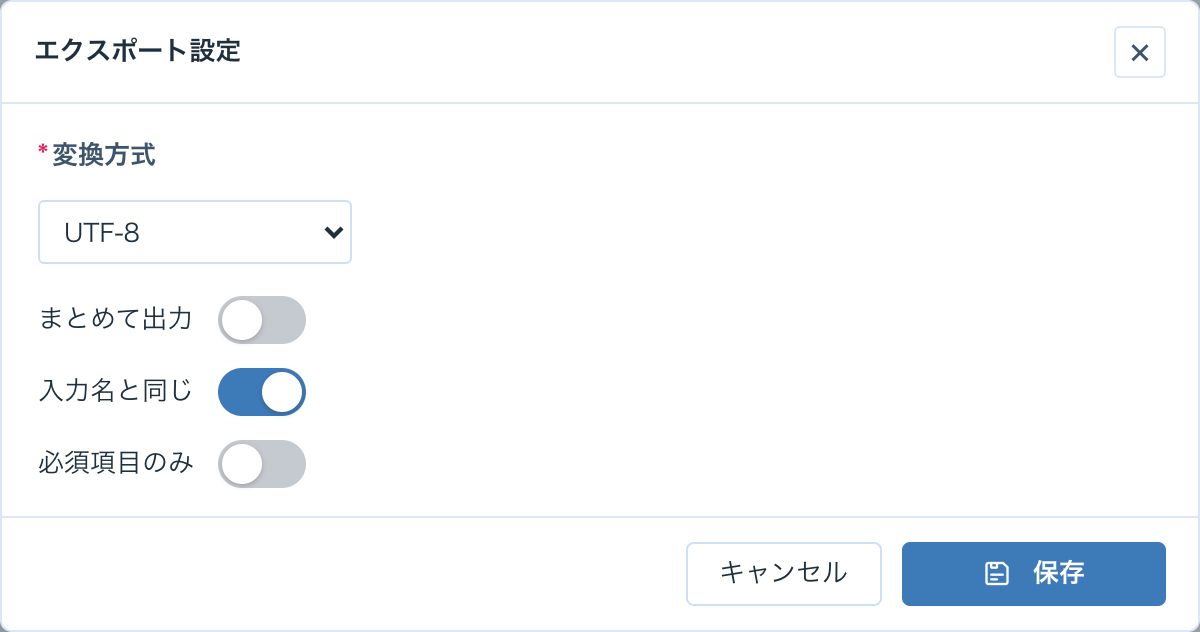
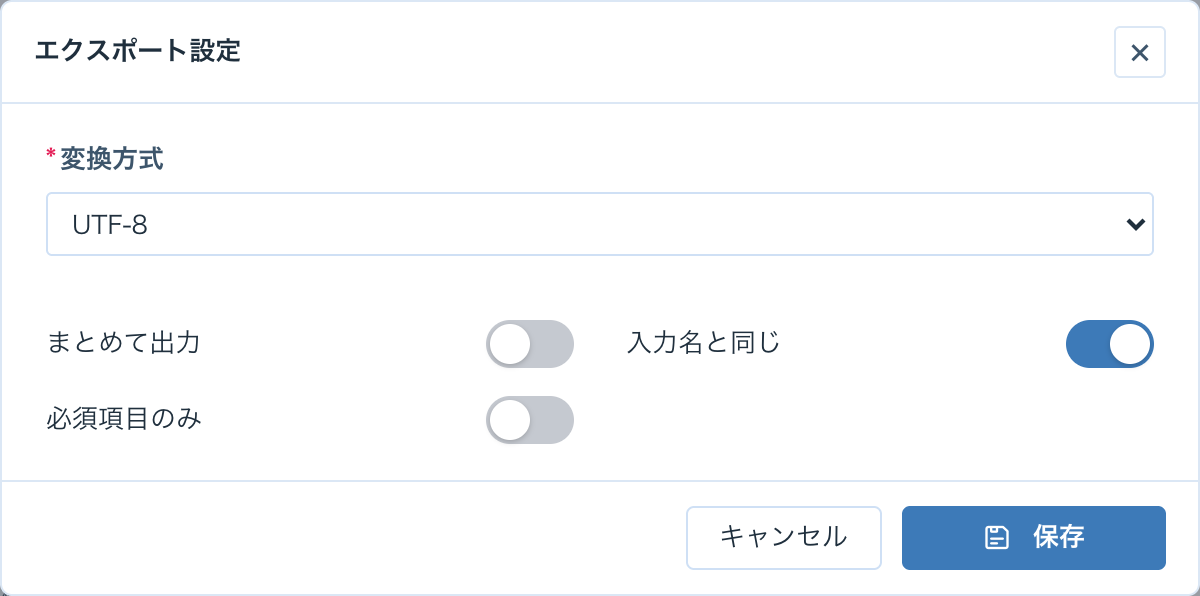
feat: エクスポート設定のスイッチを 2 カラム配置に（方案 B）
- 現行マークアップ（.exp-switches / .exp-switch）に合わせて grid 2 カラム化
- ラベル左・スイッチ右で行幅いっぱいを使い、右の余白を解消
- 変換方式のプルダウンを全幅に
- dist/ も再ビルド

diff --git a/dist/app.js b/dist/app.js
@@ -1508,6 +1508,7 @@ const state = {
   typePage: 1,
   typeZoom: 1,
   typeReadTab: 'text',            // AI読取設定：text | table
+  typeRuleTab: 'table',           // 処理ルール設定：text | table
   typePrompt: '空白文字列抽出ルール：該当項目が見つからない、または判読不能な場合は空文字（""）を出力してください。',
   typeMenu: null,                 // step2 ツールバー：tpl | gear | null
   typeItemMenu: null,             // 左リスト行の … メニュー（タイプ id）
@@ -5282,15 +5283,7 @@ function canEditWorkflow_() {
       ` : renderTypeTablePane()}
     </div>`;
   }
-  if (step === 3) {
-    return '<div class="wiz-empty"><p class="wiz-empty-title">処理ルール設定</p>'
-      + '<p class="muted">読取後の値の変換・突合・出力ルールを設定します。</p>'
-      + '<table class="wiz-table"><thead><tr><th>ルール</th><th>対象項目</th><th>内容</th></tr></thead><tbody>'
-      + '<tr><td>辞書突合</td><td><code>address</code></td><td>市町村名辞書で正規化</td></tr>'
-      + '<tr><td>日付正規化</td><td><code>birthday</code></td><td>和暦 → 西暦（YYYY-MM-DD）</td></tr>'
-      + '<tr><td>必須チェック</td><td><code>name</code></td><td>空の場合は「要確認」にする</td></tr>'
-      + '</tbody></table></div>';
-  }
+  if (step === 3) return renderRulePane();
   return '<div class="wiz-empty"><p class="wiz-empty-title">効果テスト</p>'
     + '<p class="muted">テスト帳票で分類・読取の精度を確認します。</p>'
     + '<table class="wiz-table"><thead><tr><th>項目</th><th>正解</th><th>読取結果</th><th>判定</th></tr></thead><tbody>'
@@ -5298,6 +5291,69 @@ function canEditWorkflow_() {
     + '<tr><td>住所</td><td>千代田区…</td><td>千代田区…</td><td><span class="st ok"><span class="dot"></span>一致</span></td></tr>'
     + '<tr><td>生年月日</td><td>1985-04-02</td><td>1985-04-02</td><td><span class="st ok"><span class="dot"></span>一致</span></td></tr>'
     + '</tbody></table><p class="wiz-score">精度：<b>98.2%</b>（サンプル 120 件）</p></div>';
+}
+
+const RULE_KINDS = ['数字のみ', '小数点付きの数字', 'カタカナ', 'ひらがな', '日付', '西暦年', '西暦月', '西暦日'];
+const RULE_TEXT_ROWS = [
+  ['発注日', '日付'],
+  ['発注番号', '数字のみ'],
+  ['仕入先会社名', 'カタカナ'],
+  ['仕入先担当者', ''],
+  ['納品先', ''],
+  ['納品希望日', '日付'],
+  ['支払条件', ''],
+  ['商品名', ''],
+  ['数量', '数字のみ'],
+  ['単位', 'カタカナ'],
+  ['単価', '小数点付きの数字'],
+  ['金額', '小数点付きの数字'],
+  ['備考', ''],
+  ['発注担当者', ''],
+];
+const RULE_TABLE_ROWS = [
+  ['No.', '数字のみ'],
+  ['商品コード', ''],
+  ['品名・仕様', ''],
+  ['数量', '数字のみ'],
+  ['単位', 'カタカナ'],
+  ['単価', '小数点付きの数字'],
+  ['金額', '小数点付きの数字'],
+];
+
+function renderRulePane() {
+  const tab = state.typeRuleTab === 'text' ? 'text' : 'table';
+  const src = tab === 'text' ? RULE_TEXT_ROWS : RULE_TABLE_ROWS;
+  if (!state.typeRulePick) state.typeRulePick = {};
+  const rows = src.map(([name, fallback], i) => {
+    const id = tab + ':' + i;
+    const cur = state.typeRulePick[id] != null ? state.typeRulePick[id] : fallback;
+    const opts = ['<option value="">選択してください</option>']
+      .concat(RULE_KINDS.map((k) => `<option value="${esc(k)}" ${cur === k ? 'selected' : ''}>${esc(k)}</option>`))
+      .join('');
+    return `<tr>
+      <td class="tp2-no">${i + 1}</td>
+      <td class="rule-name">${esc(name)}</td>
+      <td><select class="fld rule-select" data-rule="${esc(id)}">${opts}</select></td>
+      <td class="rule-conf"><span>95.0 %</span></td>
+    </tr>`;
+  }).join('');
+  return `<div class="tp2-pane rule-pane">
+    <div class="tp2-head">
+      <div class="tp2-tabs">
+        <button type="button" class="tp2-tab ${tab === 'text' ? 'on' : ''}" data-ruletab="text">テキスト読取</button>
+        <button type="button" class="tp2-tab ${tab === 'table' ? 'on' : ''}" data-ruletab="table">テーブル情報読取</button>
+      </div>
+      <div class="tp2-tools">
+        <button type="button" class="btn primary sm" data-rule-ai="1">AIマッチング</button>
+      </div>
+    </div>
+    <div class="tp2-tablewrap rule-tablewrap">
+      <table class="tp2-table rule-table">
+        <thead><tr><th>番号</th><th>項目名</th><th>処理ルール</th><th class="rule-conf">自信度</th></tr></thead>
+        <tbody>${rows}</tbody>
+      </table>
+    </div>
+  </div>`;
 }
 
 /** 帳票タイプ設定（左：タイプ一覧／右：選択中の Step1〜4） */
@@ -5554,6 +5610,34 @@ function bindTicketDetail() {
   document.querySelectorAll('[data-tpread]').forEach((b) => {
     b.onclick = () => { state.typeReadTab = b.dataset.tpread; state.typeMenu = null; render(); };
   });
+  document.querySelectorAll('[data-ruletab]').forEach((b) => {
+    b.onclick = () => { state.typeRuleTab = b.dataset.ruletab; render(); };
+  });
+  document.querySelectorAll('[data-rule]').forEach((el) => {
+    el.onchange = () => {
+      if (!state.typeRulePick) state.typeRulePick = {};
+      state.typeRulePick[el.dataset.rule] = el.value;
+    };
+  });
+  const ruleAi = document.querySelector('[data-rule-ai]');
+  if (ruleAi) ruleAi.onclick = () => {
+    if (!state.typeRulePick) state.typeRulePick = {};
+    const tab = state.typeRuleTab === 'text' ? 'text' : 'table';
+    const src = tab === 'text' ? RULE_TEXT_ROWS : RULE_TABLE_ROWS;
+    const guess = (name) => {
+      if (/日|年|月/.test(name)) return '日付';
+      if (/単価|金額|税/.test(name)) return '小数点付きの数字';
+      if (/番号|数量|No\.|コード/.test(name)) return '数字のみ';
+      if (/会社|単位|カナ/.test(name)) return 'カタカナ';
+      return 'ひらがな';
+    };
+    src.forEach(([name], i) => {
+      const id = tab + ':' + i;
+      if (!state.typeRulePick[id]) state.typeRulePick[id] = guess(name);
+    });
+    toast('AIマッチングしました（Demo）');
+    render();
+  };
   const tpai = document.querySelector('[data-tpai]');
   if (tpai) tpai.onclick = () => {
     const fields = ensureTypeFields();

diff --git a/demo/app.js b/demo/app.js
@@ -1219,6 +1219,7 @@ const state = {
   typePage: 1,
   typeZoom: 1,
   typeReadTab: 'text',            // AI読取設定：text | table
+  typeRuleTab: 'table',           // 処理ルール設定：text | table
   typePrompt: '空白文字列抽出ルール：該当項目が見つからない、または判読不能な場合は空文字（""）を出力してください。',
   typeMenu: null,                 // step2 ツールバー：tpl | gear | null
   typeItemMenu: null,             // 左リスト行の … メニュー（タイプ id）
@@ -4778,15 +4779,7 @@ function typePane(step, t) {
       ` : renderTypeTablePane()}
     </div>`;
   }
-  if (step === 3) {
-    return '<div class="wiz-empty"><p class="wiz-empty-title">処理ルール設定</p>'
-      + '<p class="muted">読取後の値の変換・突合・出力ルールを設定します。</p>'
-      + '<table class="wiz-table"><thead><tr><th>ルール</th><th>対象項目</th><th>内容</th></tr></thead><tbody>'
-      + '<tr><td>辞書突合</td><td><code>address</code></td><td>市町村名辞書で正規化</td></tr>'
-      + '<tr><td>日付正規化</td><td><code>birthday</code></td><td>和暦 → 西暦（YYYY-MM-DD）</td></tr>'
-      + '<tr><td>必須チェック</td><td><code>name</code></td><td>空の場合は「要確認」にする</td></tr>'
-      + '</tbody></table></div>';
-  }
+  if (step === 3) return renderRulePane();
   return '<div class="wiz-empty"><p class="wiz-empty-title">効果テスト</p>'
     + '<p class="muted">テスト帳票で分類・読取の精度を確認します。</p>'
     + '<table class="wiz-table"><thead><tr><th>項目</th><th>正解</th><th>読取結果</th><th>判定</th></tr></thead><tbody>'
@@ -4794,6 +4787,69 @@ function typePane(step, t) {
     + '<tr><td>住所</td><td>千代田区…</td><td>千代田区…</td><td><span class="st ok"><span class="dot"></span>一致</span></td></tr>'
     + '<tr><td>生年月日</td><td>1985-04-02</td><td>1985-04-02</td><td><span class="st ok"><span class="dot"></span>一致</span></td></tr>'
     + '</tbody></table><p class="wiz-score">精度：<b>98.2%</b>（サンプル 120 件）</p></div>';
+}
+
+const RULE_KINDS = ['数字のみ', '小数点付きの数字', 'カタカナ', 'ひらがな', '日付', '西暦年', '西暦月', '西暦日'];
+const RULE_TEXT_ROWS = [
+  ['発注日', '日付'],
+  ['発注番号', '数字のみ'],
+  ['仕入先会社名', 'カタカナ'],
+  ['仕入先担当者', ''],
+  ['納品先', ''],
+  ['納品希望日', '日付'],
+  ['支払条件', ''],
+  ['商品名', ''],
+  ['数量', '数字のみ'],
+  ['単位', 'カタカナ'],
+  ['単価', '小数点付きの数字'],
+  ['金額', '小数点付きの数字'],
+  ['備考', ''],
+  ['発注担当者', ''],
+];
+const RULE_TABLE_ROWS = [
+  ['No.', '数字のみ'],
+  ['商品コード', ''],
+  ['品名・仕様', ''],
+  ['数量', '数字のみ'],
+  ['単位', 'カタカナ'],
+  ['単価', '小数点付きの数字'],
+  ['金額', '小数点付きの数字'],
+];
+
+function renderRulePane() {
+  const tab = state.typeRuleTab === 'text' ? 'text' : 'table';
+  const src = tab === 'text' ? RULE_TEXT_ROWS : RULE_TABLE_ROWS;
+  if (!state.typeRulePick) state.typeRulePick = {};
+  const rows = src.map(([name, fallback], i) => {
+    const id = tab + ':' + i;
+    const cur = state.typeRulePick[id] != null ? state.typeRulePick[id] : fallback;
+    const opts = ['<option value="">選択してください</option>']
+      .concat(RULE_KINDS.map((k) => `<option value="${esc(k)}" ${cur === k ? 'selected' : ''}>${esc(k)}</option>`))
+      .join('');
+    return `<tr>
+      <td class="tp2-no">${i + 1}</td>
+      <td class="rule-name">${esc(name)}</td>
+      <td><select class="fld rule-select" data-rule="${esc(id)}">${opts}</select></td>
+      <td class="rule-conf"><span>95.0 %</span></td>
+    </tr>`;
+  }).join('');
+  return `<div class="tp2-pane rule-pane">
+    <div class="tp2-head">
+      <div class="tp2-tabs">
+        <button type="button" class="tp2-tab ${tab === 'text' ? 'on' : ''}" data-ruletab="text">テキスト読取</button>
+        <button type="button" class="tp2-tab ${tab === 'table' ? 'on' : ''}" data-ruletab="table">テーブル情報読取</button>
+      </div>
+      <div class="tp2-tools">
+        <button type="button" class="btn primary sm" data-rule-ai="1">AIマッチング</button>
+      </div>
+    </div>
+    <div class="tp2-tablewrap rule-tablewrap">
+      <table class="tp2-table rule-table">
+        <thead><tr><th>番号</th><th>項目名</th><th>処理ルール</th><th class="rule-conf">自信度</th></tr></thead>
+        <tbody>${rows}</tbody>
+      </table>
+    </div>
+  </div>`;
 }
 
 /** 帳票タイプ設定（左：タイプ一覧／右：選択中の Step1〜4） */
@@ -5047,6 +5103,34 @@ function bindTicketDetail() {
   document.querySelectorAll('[data-tpread]').forEach((b) => {
     b.onclick = () => { state.typeReadTab = b.dataset.tpread; state.typeMenu = null; render(); };
   });
+  document.querySelectorAll('[data-ruletab]').forEach((b) => {
+    b.onclick = () => { state.typeRuleTab = b.dataset.ruletab; render(); };
+  });
+  document.querySelectorAll('[data-rule]').forEach((el) => {
+    el.onchange = () => {
+      if (!state.typeRulePick) state.typeRulePick = {};
+      state.typeRulePick[el.dataset.rule] = el.value;
+    };
+  });
+  const ruleAi = document.querySelector('[data-rule-ai]');
+  if (ruleAi) ruleAi.onclick = () => {
+    if (!state.typeRulePick) state.typeRulePick = {};
+    const tab = state.typeRuleTab === 'text' ? 'text' : 'table';
+    const src = tab === 'text' ? RULE_TEXT_ROWS : RULE_TABLE_ROWS;
+    const guess = (name) => {
+      if (/日|年|月/.test(name)) return '日付';
+      if (/単価|金額|税/.test(name)) return '小数点付きの数字';
+      if (/番号|数量|No\.|コード/.test(name)) return '数字のみ';
+      if (/会社|単位|カナ/.test(name)) return 'カタカナ';
+      return 'ひらがな';
+    };
+    src.forEach(([name], i) => {
+      const id = tab + ':' + i;
+      if (!state.typeRulePick[id]) state.typeRulePick[id] = guess(name);
+    });
+    toast('AIマッチングしました（Demo）');
+    render();
+  };
   const tpai = document.querySelector('[data-tpai]');
   if (tpai) tpai.onclick = () => {
     const fields = ensureTypeFields();

diff --git a/demo/export-dialog.css b/demo/export-dialog.css
@@ -269,3 +269,22 @@
 .exp-modal .exp-field select{ width:100% !important; }
 .exp-modal .exp-field-label{ display:block; margin-bottom:6px; }
 .exp-modal .exp-checks{ display:grid !important; grid-template-columns:1fr 1fr !important; column-gap:28px !important; row-gap:12px !important; margin-top:14px; }
+
+/* ══ エクスポート設定（現行マークアップ）：スイッチを 2 カラムに（客户：方案 B） ══ */
+#expBack .exp-canvas{ padding:18px 22px; }
+#expBack .exp-stack-field{ display:block; width:100%; margin-bottom:16px; }
+#expBack .exp-stack-field select{ width:100% !important; }
+#expBack .exp-switches{
+  display:grid !important;
+  grid-template-columns:1fr 1fr !important;
+  column-gap:26px !important;
+  row-gap:14px !important;
+  width:100% !important;
+}
+#expBack .exp-switch{
+  display:flex !important;
+  align-items:center !important;
+  justify-content:space-between !important;
+  width:100% !important;
+  gap:10px;
+}

diff --git a/dist/export-dialog.css b/dist/export-dialog.css
@@ -269,3 +269,22 @@
 .exp-modal .exp-field select{ width:100% !important; }
 .exp-modal .exp-field-label{ display:block; margin-bottom:6px; }
 .exp-modal .exp-checks{ display:grid !important; grid-template-columns:1fr 1fr !important; column-gap:28px !important; row-gap:12px !important; margin-top:14px; }
+
+/* ══ エクスポート設定（現行マークアップ）：スイッチを 2 カラムに（客户：方案 B） ══ */
+#expBack .exp-canvas{ padding:18px 22px; }
+#expBack .exp-stack-field{ display:block; width:100%; margin-bottom:16px; }
+#expBack .exp-stack-field select{ width:100% !important; }
+#expBack .exp-switches{
+  display:grid !important;
+  grid-template-columns:1fr 1fr !important;
+  column-gap:26px !important;
+  row-gap:14px !important;
+  width:100% !important;
+}
+#expBack .exp-switch{
+  display:flex !important;
+  align-items:center !important;
+  justify-content:space-between !important;
+  width:100% !important;
+  gap:10px;
+}

diff --git a/demo/styles.css b/demo/styles.css
@@ -1665,6 +1665,12 @@ th .ico{font-size:11px;color:var(--accent)}
 .tp2-ops .tp2-op svg{display:block}
 .tp2-table tbody tr.is-drop td{background:#f3f7ff}
 .tp2-table tbody tr.is-drag{opacity:.55}
+.rule-pane{min-height:0}
+.rule-tablewrap{max-height:none;flex:1}
+.rule-table .rule-name{font-size:13px;color:var(--text)}
+.rule-select{height:32px;min-width:180px;width:100%;max-width:280px;background:#fff}
+.rule-conf{text-align:right;width:110px}
+.rule-conf span{display:inline-flex;align-items:center;justify-content:center;min-width:72px;height:28px;padding:0 8px;border:1px solid var(--line);border-radius:3px;background:#f7f8fa;color:var(--text-2);font-size:12.5px}
 .tb-list{display:flex;flex-direction:column;gap:12px}
 .tb-card{border:1px solid var(--line);border-radius:6px;background:#fff;overflow:hidden}
 .tb-card-head{display:flex;align-items:center;gap:6px;padding:8px 12px;background:#f4f6f8}

diff --git a/dist/styles.css b/dist/styles.css
@@ -1665,6 +1665,12 @@ th .ico{font-size:11px;color:var(--accent)}
 .tp2-ops .tp2-op svg{display:block}
 .tp2-table tbody tr.is-drop td{background:#f3f7ff}
 .tp2-table tbody tr.is-drag{opacity:.55}
+.rule-pane{min-height:0}
+.rule-tablewrap{max-height:none;flex:1}
+.rule-table .rule-name{font-size:13px;color:var(--text)}
+.rule-select{height:32px;min-width:180px;width:100%;max-width:280px;background:#fff}
+.rule-conf{text-align:right;width:110px}
+.rule-conf span{display:inline-flex;align-items:center;justify-content:center;min-width:72px;height:28px;padding:0 8px;border:1px solid var(--line);border-radius:3px;background:#f7f8fa;color:var(--text-2);font-size:12.5px}
 .tb-list{display:flex;flex-direction:column;gap:12px}
 .tb-card{border:1px solid var(--line);border-radius:6px;background:#fff;overflow:hidden}
 .tb-card-head{display:flex;align-items:center;gap:6px;padding:8px 12px;background:#f4f6f8}
